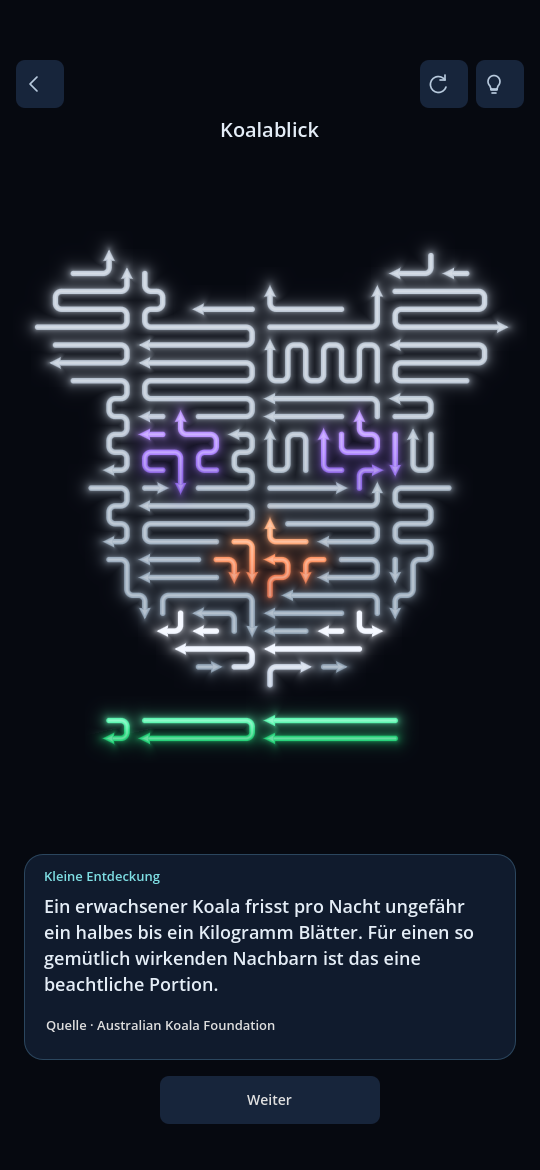
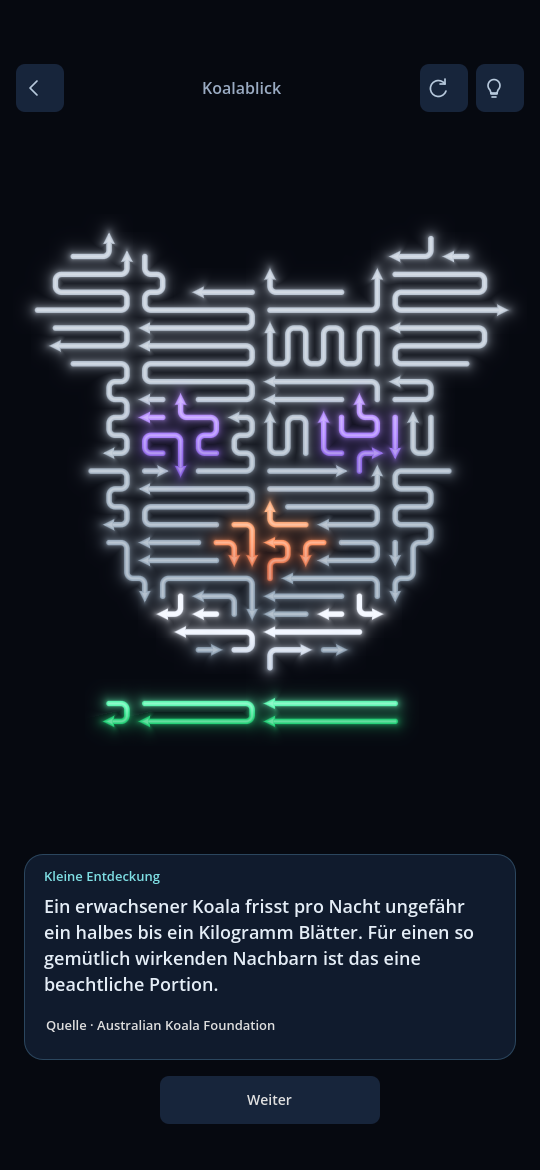
Restore compact title with camera-safe top spacing

diff --git a/README.md b/README.md
@@ -8,7 +8,7 @@ Ein spielbares Godot-Puzzle mit leuchtenden, gerundeten Pfeilpfaden. Die Motive 
 
 Godot **4.x Standard** verwenden; geprüft mit **4.7.2**, GDScript und Compatibility-Renderer. `project.godot` importieren und **F5** drücken. Die ausführliche deutsche Anleitung steht in [START.md](START.md).
 
-## Aktueller Stand · 0.17.0-dev
+## Aktueller Stand · 0.17.1-dev
 
 Der Menüumbau liegt auf `feature/neon-progression-map`; `main` bleibt bei der vorherigen Version.
 
@@ -18,7 +18,7 @@ Der Menüumbau liegt auf `feature/neon-progression-map`; `main` bleibt bei der v
 
 - **Entdeckungen nach dem Abschluss**: Nach der Lichtwelle erscheint eine lesbare Textkarte mit Fakten, Kunstgeschichten oder eigenen Gedanken. 20 Motive haben eigene Texte; die übrigen erhalten einen als Gedanken gekennzeichneten Impuls. Fakten enthalten eine Quellenaktion. Die Karte verdeckt weder Kunstwerk noch Weiter-Button und verschwindet beim Neustart.
 
-- **Präsenter Bildtitel**: eigene helle Zeile mit 20-Punkt-Schrift und Zeilenumbruch unter den Symbolen. Kameraausschnitt und sichere Displayränder werden aus physischen Bildschirmkoordinaten in die Spielansicht umgerechnet.
+- **Kompakter Bildtitel**: ursprüngliche Darstellung mit 16-Punkt-Schrift zwischen den Symbolen, unterhalb des Kameraausschnitts. Kameraausschnitt und sichere Displayränder werden aus physischen Bildschirmkoordinaten in die Spielansicht umgerechnet.
 
 - **Android im festen Hochformat**: Start und Spielansicht bleiben im Hochformat, auch bei gedrehtem Gerät.
 

diff --git a/DISCOVERIES.md b/DISCOVERIES.md
@@ -8,4 +8,4 @@ Die übrigen Motive erhalten einen eigenen Gedanken passend zur Sammlung, soweit
 
 Weitere Texte können ergänzt werden, ohne Pfeile oder Farben des Motivs zu ändern. Ziel sind kurze, überraschende und zum konkreten Bild passende Texte; keine erfundenen Künstlerzitate. Der neue Katalog ersetzt noch keine vollständige Redaktion aller 500 Motive.
 
-Der Spieltitel erhält eine eigene helle Zeile mit Zeilenumbruch. `play_safe_area.gd` berücksichtigt auf Mobilgeräten sowohl den sicheren Displaybereich als auch gemeldete Kameraausschnitte und rechnet die physischen Pixel in die skalierten Spielkoordinaten um. Auch die untere Aktion bleibt innerhalb der sicheren Fläche. Die Geräteprüfung auf dem S22 steht noch aus.
+Der Spieltitel bleibt in der ursprünglichen kompakten Darstellung zwischen den Symbolen; der obere Abstand berücksichtigt den Kameraausschnitt. `play_safe_area.gd` berücksichtigt auf Mobilgeräten sowohl den sicheren Displaybereich als auch gemeldete Kameraausschnitte und rechnet die physischen Pixel in die skalierten Spielkoordinaten um. Auch die untere Aktion bleibt innerhalb der sicheren Fläche. Die Geräteprüfung auf dem S22 steht noch aus.
